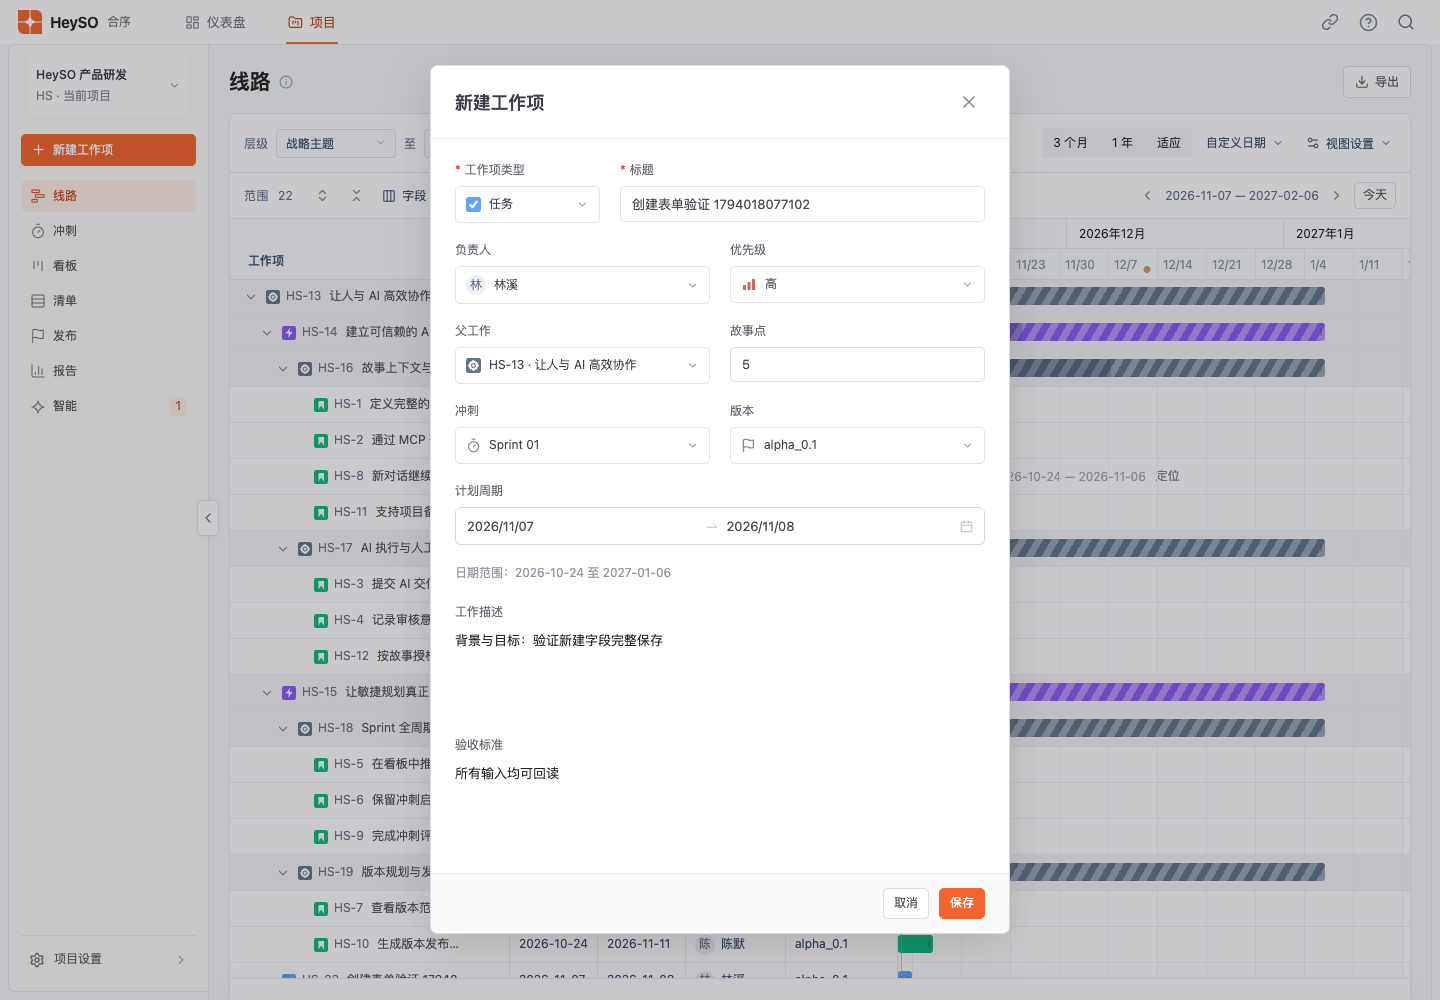
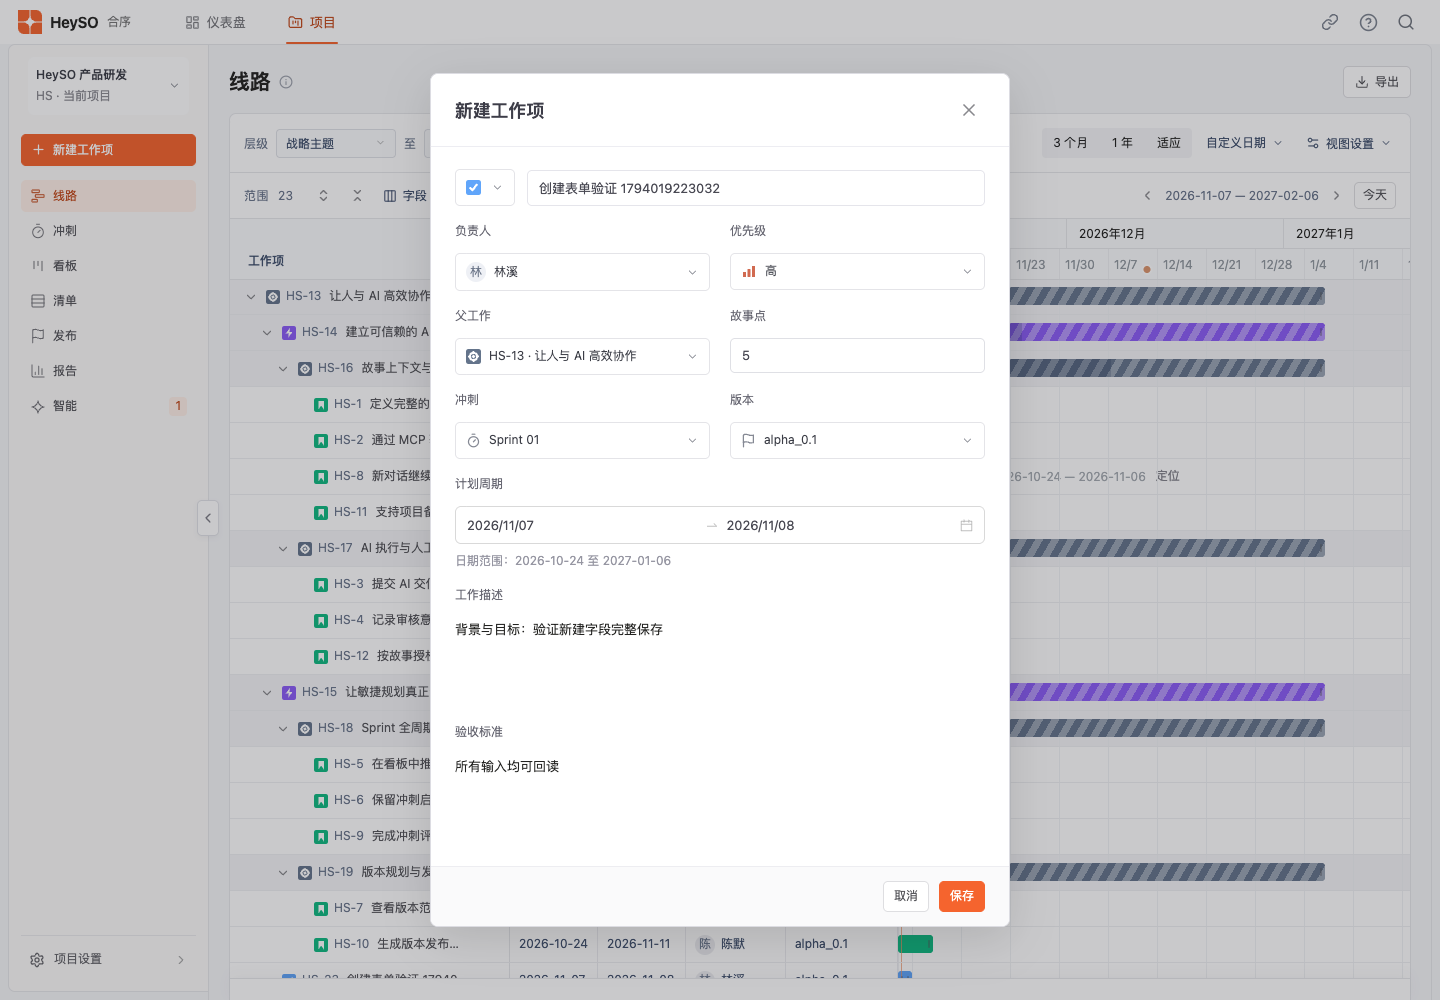
Compact work item type selection and refine epic and subtask creation layouts

diff --git a/src/main.jsx b/src/main.jsx
@@ -1847,7 +1847,7 @@ function EditorModal({
         points: Number(get(f, "points")) || 0,
         startDate: get(f, "startDate"),
         endDate: get(f, "endDate"),
-        sprintId: isSubtask({kind:itemKind},project)?null:itemSprint||null,
+        sprintId: isWorkItem({kind:itemKind},project)?itemSprint||null:null,
         releaseId: itemRelease||null,
       });
     }
@@ -2061,7 +2061,7 @@ function EditorModal({
             </p>
           </div>
         ) : (
-          <ReplicaForm className={m.type === "item" ? "create-item-form" : ""} onSubmit={submit}>
+          <ReplicaForm className={m.type === "item" ? `create-item-form ${isSubtask({kind:itemKind},project)?"is-subtask":isWorkItem({kind:itemKind},project)?"is-work-item":"is-planning-item"}` : ""} onSubmit={submit}>
             <div className="modal-body">
               {m.type === "item" && (
                 <>
@@ -2078,16 +2078,16 @@ function EditorModal({
                     </AntAlert>
                   )}
                   <div className="form-grid create-item-heading">
-                  <Field label="工作项类型" required><Select name="kind" aria-required="true" value={itemKind} onChange={(e) => {
+                  <Field><Select name="kind" aria-label="工作项类型" selectedIconOnly popupWidth={136} showSelectionTitle={false} className="create-item-type" aria-required="true" value={itemKind} onChange={(e) => {
                     const kind = e.target.value; setItemKind(kind);
                     if (!possibleParents.some((p) => p.id === itemParent && canParent(project, kind, p))) setItemParent("");
                   }}>{configFor(project).types.filter((t) => t.enabled && !t.hidden).map((t) => <option key={t.id} value={t.id}>{t.name}</option>)}</Select></Field>
-                  <Field label="标题" required>
+                  <Field>
                     <ReplicaInput
                       name="title"
+                      aria-label="标题"
                       autoFocus
                       required
-                      placeholder={`给${kinds[itemKind]}一个清晰的名称`}
                     />
                   </Field>
                   </div>
@@ -2107,8 +2107,8 @@ function EditorModal({
                       </Select>
                     </Field>
                   </div>
-                  <div className="form-grid">
-                  {parentKind ? (
+                  <div className={`form-grid create-item-parent-row ${isWorkItem({kind:itemKind},project)?"":"is-single"}`}>
+                  {parentKind && (
                     <Field label="父工作">
                       <Select
                         name="parentId"
@@ -2132,13 +2132,13 @@ function EditorModal({
                           ))}
                       </Select>
                     </Field>
-                  ) : <Field label="父工作"><Select name="parentId" value="" disabled><option value="">此类型无需父工作</option></Select></Field>}
+                  )}
                   {isWorkItem({kind:itemKind}, project) && <Field label="故事点">
                     <ReplicaInput name="points" type="number" min="0" max="1000" defaultValue="0"/>
                   </Field>}
                   </div>
-                  <div className="form-grid create-item-planning">
-                    {!isSubtask({kind:itemKind},project) ? <Field label="冲刺"><Select name="sprintId" value={itemSprint} onChange={e=>setItemSprint(e.target.value)}><option value="">产品待办池</option>{data.sprints.filter(sp=>sp.projectId===project.id&&sp.status!=="closed").map(sp=><option key={sp.id} value={sp.id}>{sp.name}</option>)}</Select></Field> : <InheritedPlanning parent={items.find(i=>i.id===itemParent)} releases={data.releases} sprints={data.sprints} compact/>}
+                  <div className={`form-grid create-item-planning ${isExecutionItem({kind:itemKind},project)?"":"is-single"}`}>
+                    {isWorkItem({kind:itemKind},project) ? <Field label="冲刺"><Select name="sprintId" value={itemSprint} onChange={e=>setItemSprint(e.target.value)}><option value="">产品待办池</option>{data.sprints.filter(sp=>sp.projectId===project.id&&sp.status!=="closed").map(sp=><option key={sp.id} value={sp.id}>{sp.name}</option>)}</Select></Field> : isSubtask({kind:itemKind},project) ? <InheritedPlanning parent={items.find(i=>i.id===itemParent)} releases={data.releases} sprints={data.sprints} compact/> : null}
                     <Field label="版本"><Select name="releaseId" value={itemRelease} onChange={e=>setItemRelease(e.target.value)}><option value="">未安排版本</option>{data.releases.filter(r=>r.projectId===project.id&&!r.archived&&r.status!=="released").map(r=><option key={r.id} value={r.id}>{r.name}</option>)}</Select></Field>
                   </div>
                   <DateFields range rangeLabel="计划周期"

diff --git a/src/Select.jsx b/src/Select.jsx
@@ -183,25 +183,25 @@ function fieldKind(label = "", name = "") {
 }
 
 // Ant Select owns the option list, filtering, keyboard navigation and focus.
-export default function Select({children,value,defaultValue,onChange,name,required,disabled,className='',kind:givenKind,searchable,onCreate,sidebarTooltip,sidebarDescription,id,'aria-label':label='选择选项'}) {
+export default function Select({children,value,defaultValue,onChange,name,required,disabled,className='',kind:givenKind,searchable,selectedIconOnly=false,popupWidth,showSelectionTitle=true,onCreate,sidebarTooltip,sidebarDescription,id,'aria-label':label='选择选项'}) {
   const options=readOptions(children),[local,setLocal]=useState(()=>String(defaultValue??options[0]?.value??''));
   const current=value===undefined?local:String(value),kind=givenKind||fieldKind(label,name);
   const canSearch=searchable??!['priority','decision','points','note','type'].includes(kind);
   const [open,setOpen]=useState(false),[query,setQuery]=useState(''),select=useRef(null);
-  const selected=options.find(o=>o.value===current),iconOnly=className.includes('detail-status-picker');
+  const selected=options.find(o=>o.value===current),iconOnly=selectedIconOnly||className.includes('detail-status-picker');
   const change=next=>{if(value===undefined)setLocal(next);onChange?.({target:{value:next,name},currentTarget:{value:next,name}});};
   const renderLabel=option=><>{option&&<OptionIcon kind={kind} option={option}/>}{kind==='project'&&<ChevronsUpDown size={18} className="sidebar-project-switch-icon" aria-hidden="true"/>}{!iconOnly&&<span className="select-value"><span>{option?.label||'请选择'}</span>{kind==='project'&&<small>{option?.code||'项目'} · 当前项目</small>}</span>}</>;
   return <div className={`select-control ${kind==='project'?'project-switcher':''} ${className}`}>
     {name&&<input type="hidden" name={name} value={current} disabled={disabled}/>}
     <SidebarTip label={kind==='project'?sidebarTooltip:undefined} description={sidebarDescription}><BindField name={name||(id?['__ui',id]:undefined)} value={current} required={required} disabled={disabled} label={label}>
-    <AntSelect id={id} ref={select} value={current} onChange={change} disabled={disabled} aria-label={label} title={sidebarTooltip?undefined:selected?.label}
+    <AntSelect id={id} ref={select} value={current} onChange={change} disabled={disabled} aria-label={label} title={!showSelectionTitle||sidebarTooltip?undefined:selected?.label}
       className="select-trigger heyso-select" data-sidebar-tooltip={sidebarTooltip} data-sidebar-description={sidebarDescription}
       open={open} onOpenChange={next=>{setOpen(next);if(!next)setQuery('');}}
       options={options} virtual={false} showSearch={false} labelRender={()=>renderLabel(selected)}
-      suffix={iconOnly?null:<ChevronDown size={13} className="select-chevron"/>} listHeight={280}
+      suffix={className.includes('detail-status-picker')?null:<ChevronDown size={13} className="select-chevron"/>} listHeight={280}
       popupMatchSelectWidth={false} placement="bottomLeft" notFoundContent={<div className="select-empty">没有匹配的{kind==='project'?'项目':'选项'}</div>}
       classNames={{popup:{root:`heyso-select-popup select-popover-${kind}`}}}
-      styles={{popup:{root:{width:kind==='project'?320:240,maxWidth:'calc(100vw - 16px)'}}}}
+      styles={{popup:{root:{width:popupWidth??(kind==='project'?320:240),maxWidth:'calc(100vw - 16px)'}}}}
       optionFilterProp="label" optionRender={({data:option})=><>{kind!=='project'&&<OptionIcon kind={kind} option={option}/>}<span className="select-option-label"><span>{option.label}</span>{kind==='project'&&<small>{option.code}{option.description?` · ${option.description}`:''}</small>}</span>{option.value===current&&<Check size={14} className="select-check"/>}</>}
       menuItemSelectedIcon={null}
       popupRender={menu=><>{kind==='project'&&<div className="select-heading">切换项目 <span>{options.length}</span></div>}{canSearch&&<div className="select-search"><Search size={15}/><Input autoFocus aria-label={`搜索${kind==='project'?'项目':'选项'}`} placeholder={kind==='project'?'搜索项目名称或标识…':'搜索选项…'} value={query} onChange={e=>setQuery(e.target.value)} onKeyDown={e=>{if(e.key==='Escape')setOpen(false);if(['ArrowDown','ArrowUp'].includes(e.key)){e.preventDefault();select.current?.focus();}}}/>{query&&<ReplicaButton type="button" aria-label="清空搜索" onClick={()=>setQuery('')}><X size={13}/></ReplicaButton>}</div>}{menu}{onCreate&&<div className="select-footer"><ReplicaButton type="button" onClick={()=>{setOpen(false);onCreate();}}><Plus size={15}/>创建新项目</ReplicaButton></div>}</>}

diff --git a/src/app.css b/src/app.css
@@ -7748,11 +7748,22 @@ body .roadmap-plan-popover .roadmap-search {padding:8px 11px;}
 .roadmap-editable-cell .ant-input-number-input {border:0;box-shadow:none;padding:2px 5px;height:28px;}
 .work-item-date-range .ant-picker-clear {border:0;box-shadow:none;background:#fff;padding:0;min-width:0;width:16px;height:16px;border-radius:50%;display:flex;align-items:center;justify-content:center;}
 
-/* Work item creation follows the planning fields before long-form content. */
-.create-item-form .create-item-heading { grid-template-columns: minmax(145px, .55fr) minmax(0, 1.45fr); }
-.create-item-form .form-grid > * { min-width: 0; }
-.create-item-form .create-item-planning .inherited-planning { margin: 0; padding: 0; border: 0; background: transparent; display: block; }
-.create-item-form .create-item-planning .inherited-planning .field { margin-bottom: 0; }
-@media (max-width: 600px) {
-  .create-item-form .form-grid { grid-template-columns: minmax(0, 1fr); }
+/* Compact creation layout shared by standard, planning and child items. */
+.create-item-form .modal-body { display:flex;flex-direction:column;gap:16px; }
+.create-item-form .modal-body .field { margin:0; }
+.create-item-form .form-grid { display:grid;grid-template-columns:repeat(2,minmax(0,1fr));gap:16px 20px;margin:0; }
+.create-item-form .create-item-heading { grid-template-columns:60px minmax(0,1fr);gap:12px;align-items:center; }
+.create-item-form .form-grid > * { min-width:0; }
+.create-item-form .create-item-heading .ant-form-item-label { display:none; }
+.create-item-form .create-item-type .select-trigger { width:60px; }
+.create-item-form .create-item-heading input { min-width:0; }
+.create-item-form .form-grid.is-single { grid-template-columns:minmax(0,1fr); }
+.create-item-form .create-item-parent-row:empty { display:none; }
+.create-item-form .inherited-planning.is-compact { grid-column:auto;width:auto;margin:0;padding:0;border:0;background:transparent;display:block; }
+.create-item-form .schedule-hint { margin:-8px 0 0;font-size:12px;line-height:18px; }
+.create-item-form .field .ant-form-item-label { padding-bottom:6px; }
+@media (max-width:600px) {
+  .create-item-form .modal-body { gap:14px; }
+  .create-item-form .form-grid { grid-template-columns:minmax(0,1fr);gap:14px; }
+  .create-item-form .create-item-heading { grid-template-columns:60px minmax(0,1fr);gap:10px; }
 }

diff --git a/docs/verification/hs1-30-create-item.md b/docs/verification/hs1-30-create-item.md
@@ -11,3 +11,11 @@
 截图：[桌面属性](hs1-30/create-desktop.png)、[富文本内容](hs1-30/create-content.png)、[手机](hs1-30/create-mobile.png)。
 
 本次不修改云端故事描述、验收标准或人工验收状态。
+
+## 紧凑布局修正
+
+按截图反馈移除类型、标题的可见标签、必填标记与标题占位提示。类型选中后只显示图标（保留无障碍名称），选择框宽 60px，下拉宽 136px，显示图标及类型名称。
+
+史诗等规划层不显示冲刺或故事点；父工作、版本各占整行，统一字段与行间距。子任务的父工作占整行，随父级继承的冲刺与版本并排，消除继承字段撑满整行造成的空位。手机保留图标与标题同一行，其余属性单列。
+
+222 项测试、Vite 构建和浏览器复验通过；验证所有字段保存回读、类型切换、136px 下拉、史诗与子任务布局、手机宽度及页面异常。补充截图：[史诗](hs1-30/create-epic.png)、[子任务](hs1-30/create-subtask.png)。
